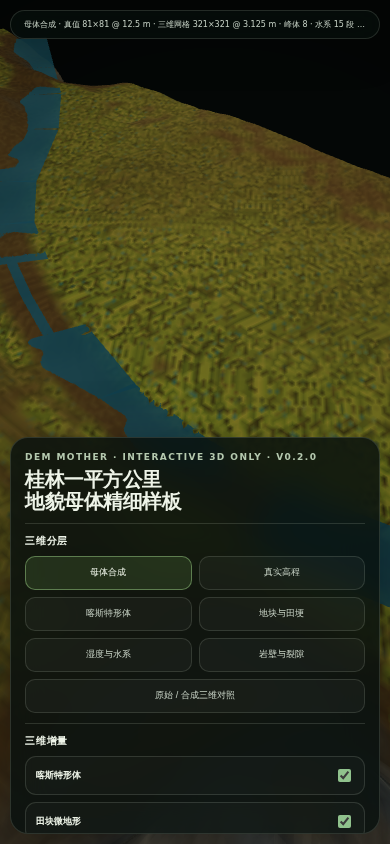
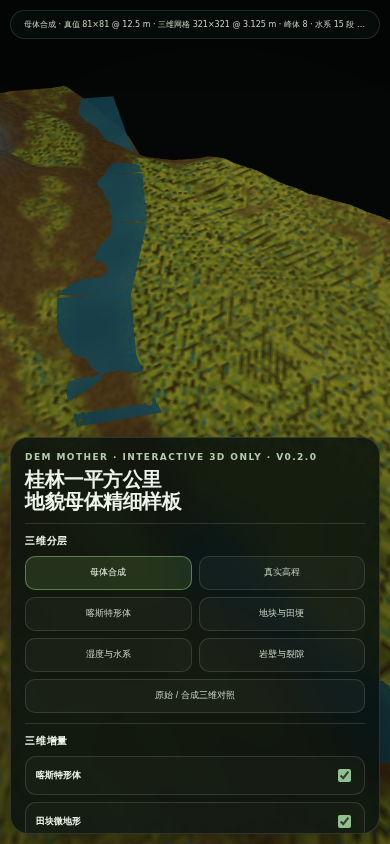
deploy: 4a0370c208ed648e2ad2d370871aab1c2502312b

diff --git a/guilin-mother-sample-v002/app.js b/guilin-mother-sample-v002/app.js
@@ -882,6 +882,102 @@ deriveTerrainFields=function(dense,segments){
 
 const drawSkirtV24=drawSkirt;
 drawSkirt=function(){if(state.mode===2&&state.camera.distance<760)return;drawSkirtV24();};
+/* v0.2.5 floodplain parent mask, parcel identity and globally continuous irrigation lines. */
+parcelGrammar=function(easting,northing){
+  const warpX=fbm2(easting*.00135,northing*.00135,SEEDS.field+31,4)*42;
+  const warpZ=fbm2(easting*.00135+7.4,northing*.00135-5.1,SEEDS.field+73,4)*42;
+  const angle=.23+fbm2(easting*.00044,northing*.00044,SEEDS.field+91,3)*.16;
+  const ca=Math.cos(angle),sa=Math.sin(angle);
+  const rx=(easting+warpX)*ca+(northing+warpZ)*sa;
+  const rz=-(easting+warpX)*sa+(northing+warpZ)*ca;
+  const cellX=132,cellZ=94;
+  const gx=Math.floor(rx/cellX),gz=Math.floor(rz/cellZ);
+  const fu=fract(rx/cellX),fv=fract(rz/cellZ);
+  const edge=Math.min(fu,1-fu,fv,1-fv);
+  const boundary=1-smoothstep(.016,.085,edge);
+  const fieldSeed=hash2(gx,gz,SEEDS.field+277);
+  const ditchWarp=fbm2(easting*.0027,northing*.0027,SEEDS.field+333,3)*13;
+  const lineA=Math.abs(Math.sin((rx+ditchWarp)*.0122));
+  const lineB=Math.abs(Math.sin((rz-ditchWarp)*.0155));
+  const ditchA=1-smoothstep(.00,.145,lineA);
+  const ditchB=1-smoothstep(.00,.120,lineB);
+  const channel=Math.max(ditchA,ditchB*.58);
+  return{boundary,fieldSeed,channel};
+};
+
+const deriveTerrainFieldsV24=deriveTerrainFields;
+deriveTerrainFields=function(dense,segments){
+  const fields=deriveTerrainFieldsV24(dense,segments);
+  const elevationRange=Math.max(1,state.maximum-state.minimum);
+  let minimum=Infinity,maximum=-Infinity,paddySum=0,bundSum=0,channelSum=0;
+  for(let row=0;row<RENDER_GRID;row++){
+    for(let column=0;column<RENDER_GRID;column++){
+      const index=row*RENDER_GRID+column;
+      const truth=dense[index];
+      const x=column*RENDER_SPACING-SIDE_M*.5,z=row*RENDER_SPACING-SIDE_M*.5;
+      const easting=CENTER_E+x,northing=CENTER_N-z;
+      const slopeDegrees=fields.slope[index]*62;
+      const elev=(truth-state.minimum)/elevationRange;
+      const lowland=1-smoothstep(.085,.66,elev);
+      const flat=1-smoothstep(3.2,15.5,slopeDegrees);
+      const waterDistance=nearestWaterDistance(x,z,segments);
+      const waterCore=1-smoothstep(8,28,waterDistance);
+      const parentScore=lowland*flat*(.53+.47*fields.wet[index])*(1-waterCore*.96)*(1-fields.cliff[index]*.96)*(1-fields.talus[index]*.58);
+      const parentMask=smoothstep(.075,.50,parentScore);
+      const parcel=parcelGrammar(easting,northing);
+      const parcelUse=smoothstep(.035,.17,parcel.fieldSeed);
+      const paddy=parentMask*mix(.82,1.0,parcelUse);
+      const bund=paddy*Math.pow(parcel.boundary,.58);
+      const channel=paddy*parcel.channel*(1-parcel.boundary*.72);
+      const terraceStep=.26+parcel.fieldSeed*.15;
+      const target=Math.round(truth/terraceStep)*terraceStep;
+      const flatten=clamp((target-truth)*.46,-.15,.15);
+      const delta=clamp(paddy*flatten+bund*(.44+parcel.fieldSeed*.22)-channel*(.26+parcel.fieldSeed*.15),-.42,.69);
+      fields.paddy[index]=paddy;
+      fields.bund[index]=bund;
+      fields.channel[index]=channel;
+      fields.fieldDelta[index]=delta;
+      fields.unitSeed[index]=parcel.fieldSeed;
+      fields.flow[index]=clamp(fields.flow[index]+channel*.46,0,1);
+      fields.terrace[index]=paddy*flat;
+      fields.enhanced[index]=truth+fields.karstDelta[index]+delta;
+      minimum=Math.min(minimum,delta);maximum=Math.max(maximum,delta);
+      paddySum+=paddy;bundSum+=bund;channelSum+=channel;
+    }
+  }
+  fields.enhancedNormals=buildNormalArray(fields.enhanced);
+  state.fieldRange=[minimum,maximum];
+  state.fieldStats={paddyFraction:paddySum/fields.paddy.length,bundMean:bundSum/fields.bund.length,channelMean:channelSum/fields.channel.length};
+  return fields;
+};
+
+buildWaterMesh=function(){
+  const gl=state.gl,vertices=[],indices=[];
+  const add=(x,y,z,c)=>{vertices.push(x,y,z,c);return vertices.length/4-1;};
+  for(const segment of state.segments){
+    const dx=segment.x1-segment.x0,dz=segment.z1-segment.z0,length=Math.hypot(dx,dz);
+    if(length<3.5)continue;
+    if(length<60&&segment.sourceWidth>20)continue;
+    const nx=-dz/length,nz=dx/length;
+    const base=segment.classValue===0?4.8:(segment.classValue===1?1.8:1.0);
+    const requestedHalf=Math.max(base*.60,segment.sourceWidth*.50);
+    const shortSafe=length<58?Math.max(.60,length*.065):25;
+    const halfWidth=clamp(Math.min(requestedHalf,shortSafe,25),.60,25);
+    const y0=segment.y0-state.minimum+.34,y1=segment.y1-state.minimum+.34;
+    const a=add(segment.x0+nx*halfWidth,y0,segment.z0+nz*halfWidth,segment.classValue);
+    const b=add(segment.x0-nx*halfWidth,y0,segment.z0-nz*halfWidth,segment.classValue);
+    const c=add(segment.x1+nx*halfWidth,y1,segment.z1+nz*halfWidth,segment.classValue);
+    const d=add(segment.x1-nx*halfWidth,y1,segment.z1-nz*halfWidth,segment.classValue);
+    indices.push(a,b,c,c,b,d);
+  }
+  const vao=gl.createVertexArray(),vertexBuffer=gl.createBuffer(),indexBuffer=gl.createBuffer();
+  gl.bindVertexArray(vao);gl.bindBuffer(gl.ARRAY_BUFFER,vertexBuffer);gl.bufferData(gl.ARRAY_BUFFER,new Float32Array(vertices),gl.STATIC_DRAW);
+  gl.enableVertexAttribArray(0);gl.vertexAttribPointer(0,3,gl.FLOAT,false,16,0);
+  gl.enableVertexAttribArray(1);gl.vertexAttribPointer(1,1,gl.FLOAT,false,16,12);
+  gl.bindBuffer(gl.ELEMENT_ARRAY_BUFFER,indexBuffer);gl.bufferData(gl.ELEMENT_ARRAY_BUFFER,new Uint32Array(indices),gl.STATIC_DRAW);
+  gl.bindVertexArray(null);
+  state.water={vao,vertexBuffer,indexBuffer,indexCount:indices.length};
+};
 const MODE_NAMES=['母体合成','真实高程','喀斯特形体','地块与田埂','湿度与水系','岩壁与裂隙','原始 / 合成三维对照'];
 const LEGENDS={0:[['#9a9d47','田块'],['#88714a','泥土'],['#aaa797','石灰岩'],['#2b8090','水系']],1:[['#29482d','低地'],['#6f7042','坡地'],['#aaa99b','高地']],2:[['#17221c','低响应'],['#dc9f2d','喀斯特'],['#f3dc79','正增量'],['#397cb2','切削区']],3:[['#1d2518','禁入'],['#a6ad3d','田面'],['#6f421c','田埂'],['#238395','沟渠']],4:[['#36271a','偏干'],['#35685e','湿润'],['#1f91a0','高湿'],['#216896','真实水系']],5:[['#1d2b1d','覆盖面'],['#73746d','裸岩'],['#332219','裂隙'],['#c1ad72','层理']],6:[['#69725b','左侧真值'],['#a0a34d','右侧母体'],['#2b8090','共享水系'] ]};
 function updateLegend(){const root=$('legend');root.innerHTML='';for(const[color,label]of LEGENDS[state.mode])root.insertAdjacentHTML('beforeend',`<div><i style="background:${color}"></i>${label}</div>`);}
